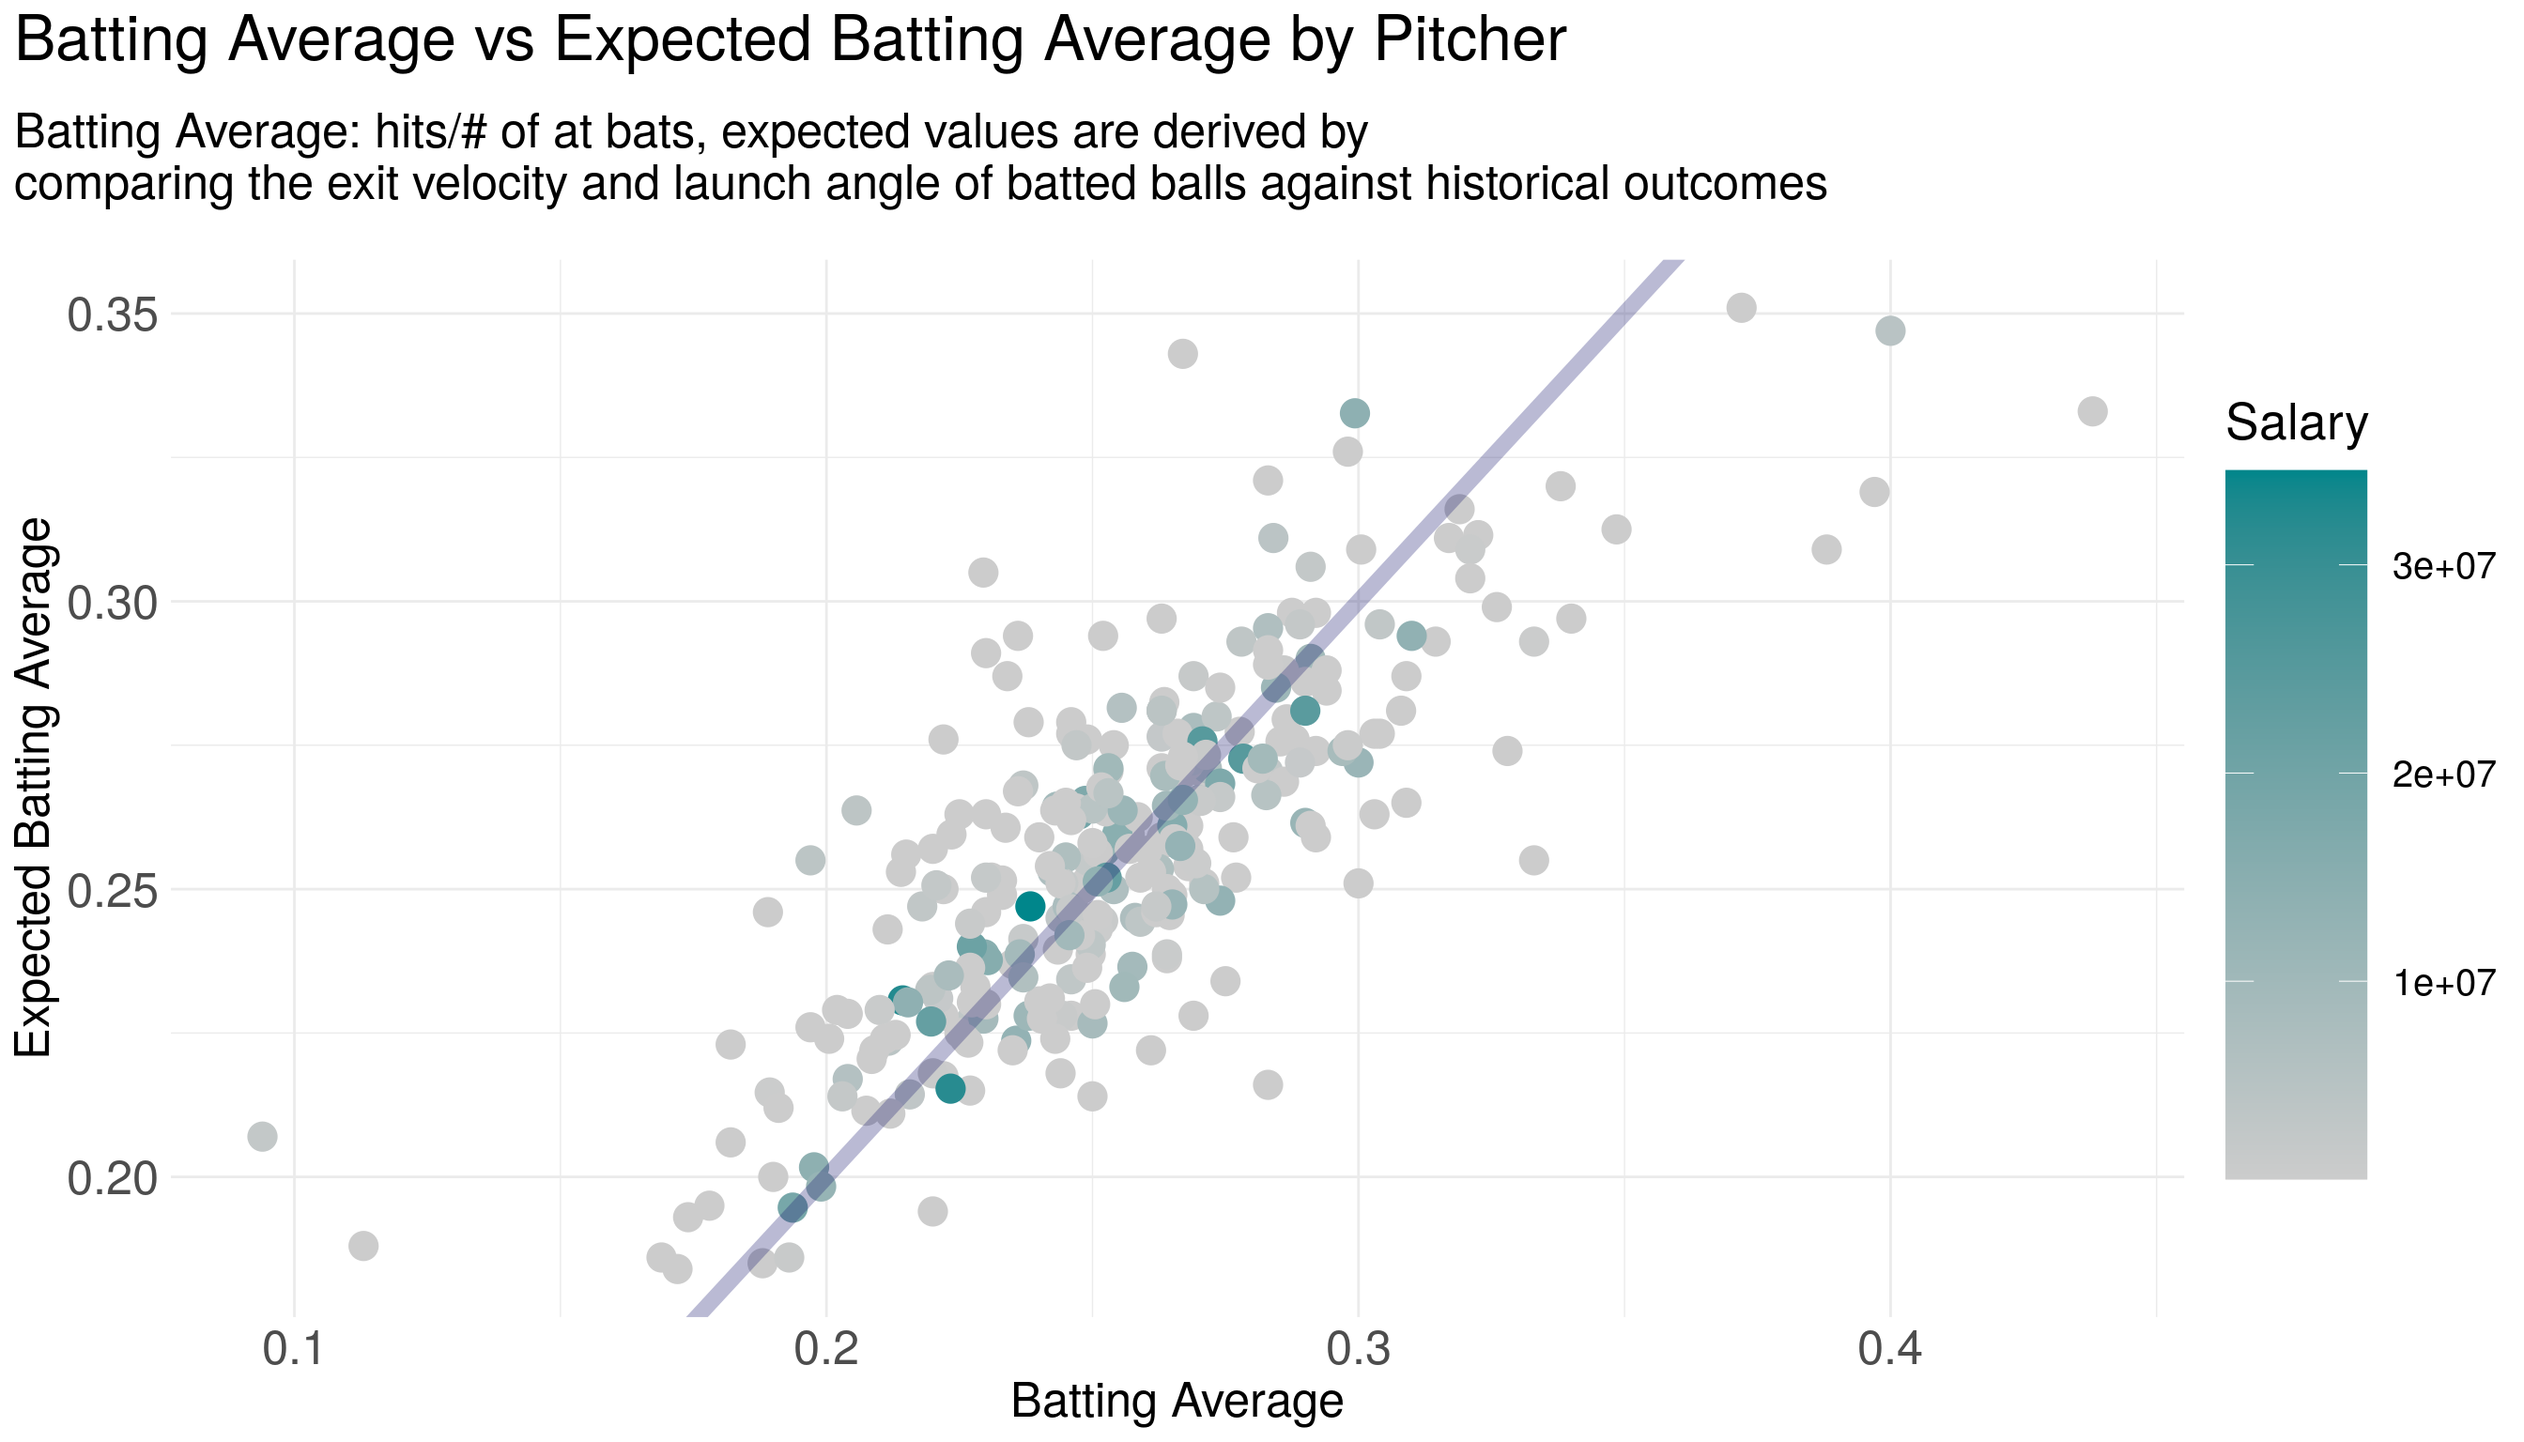
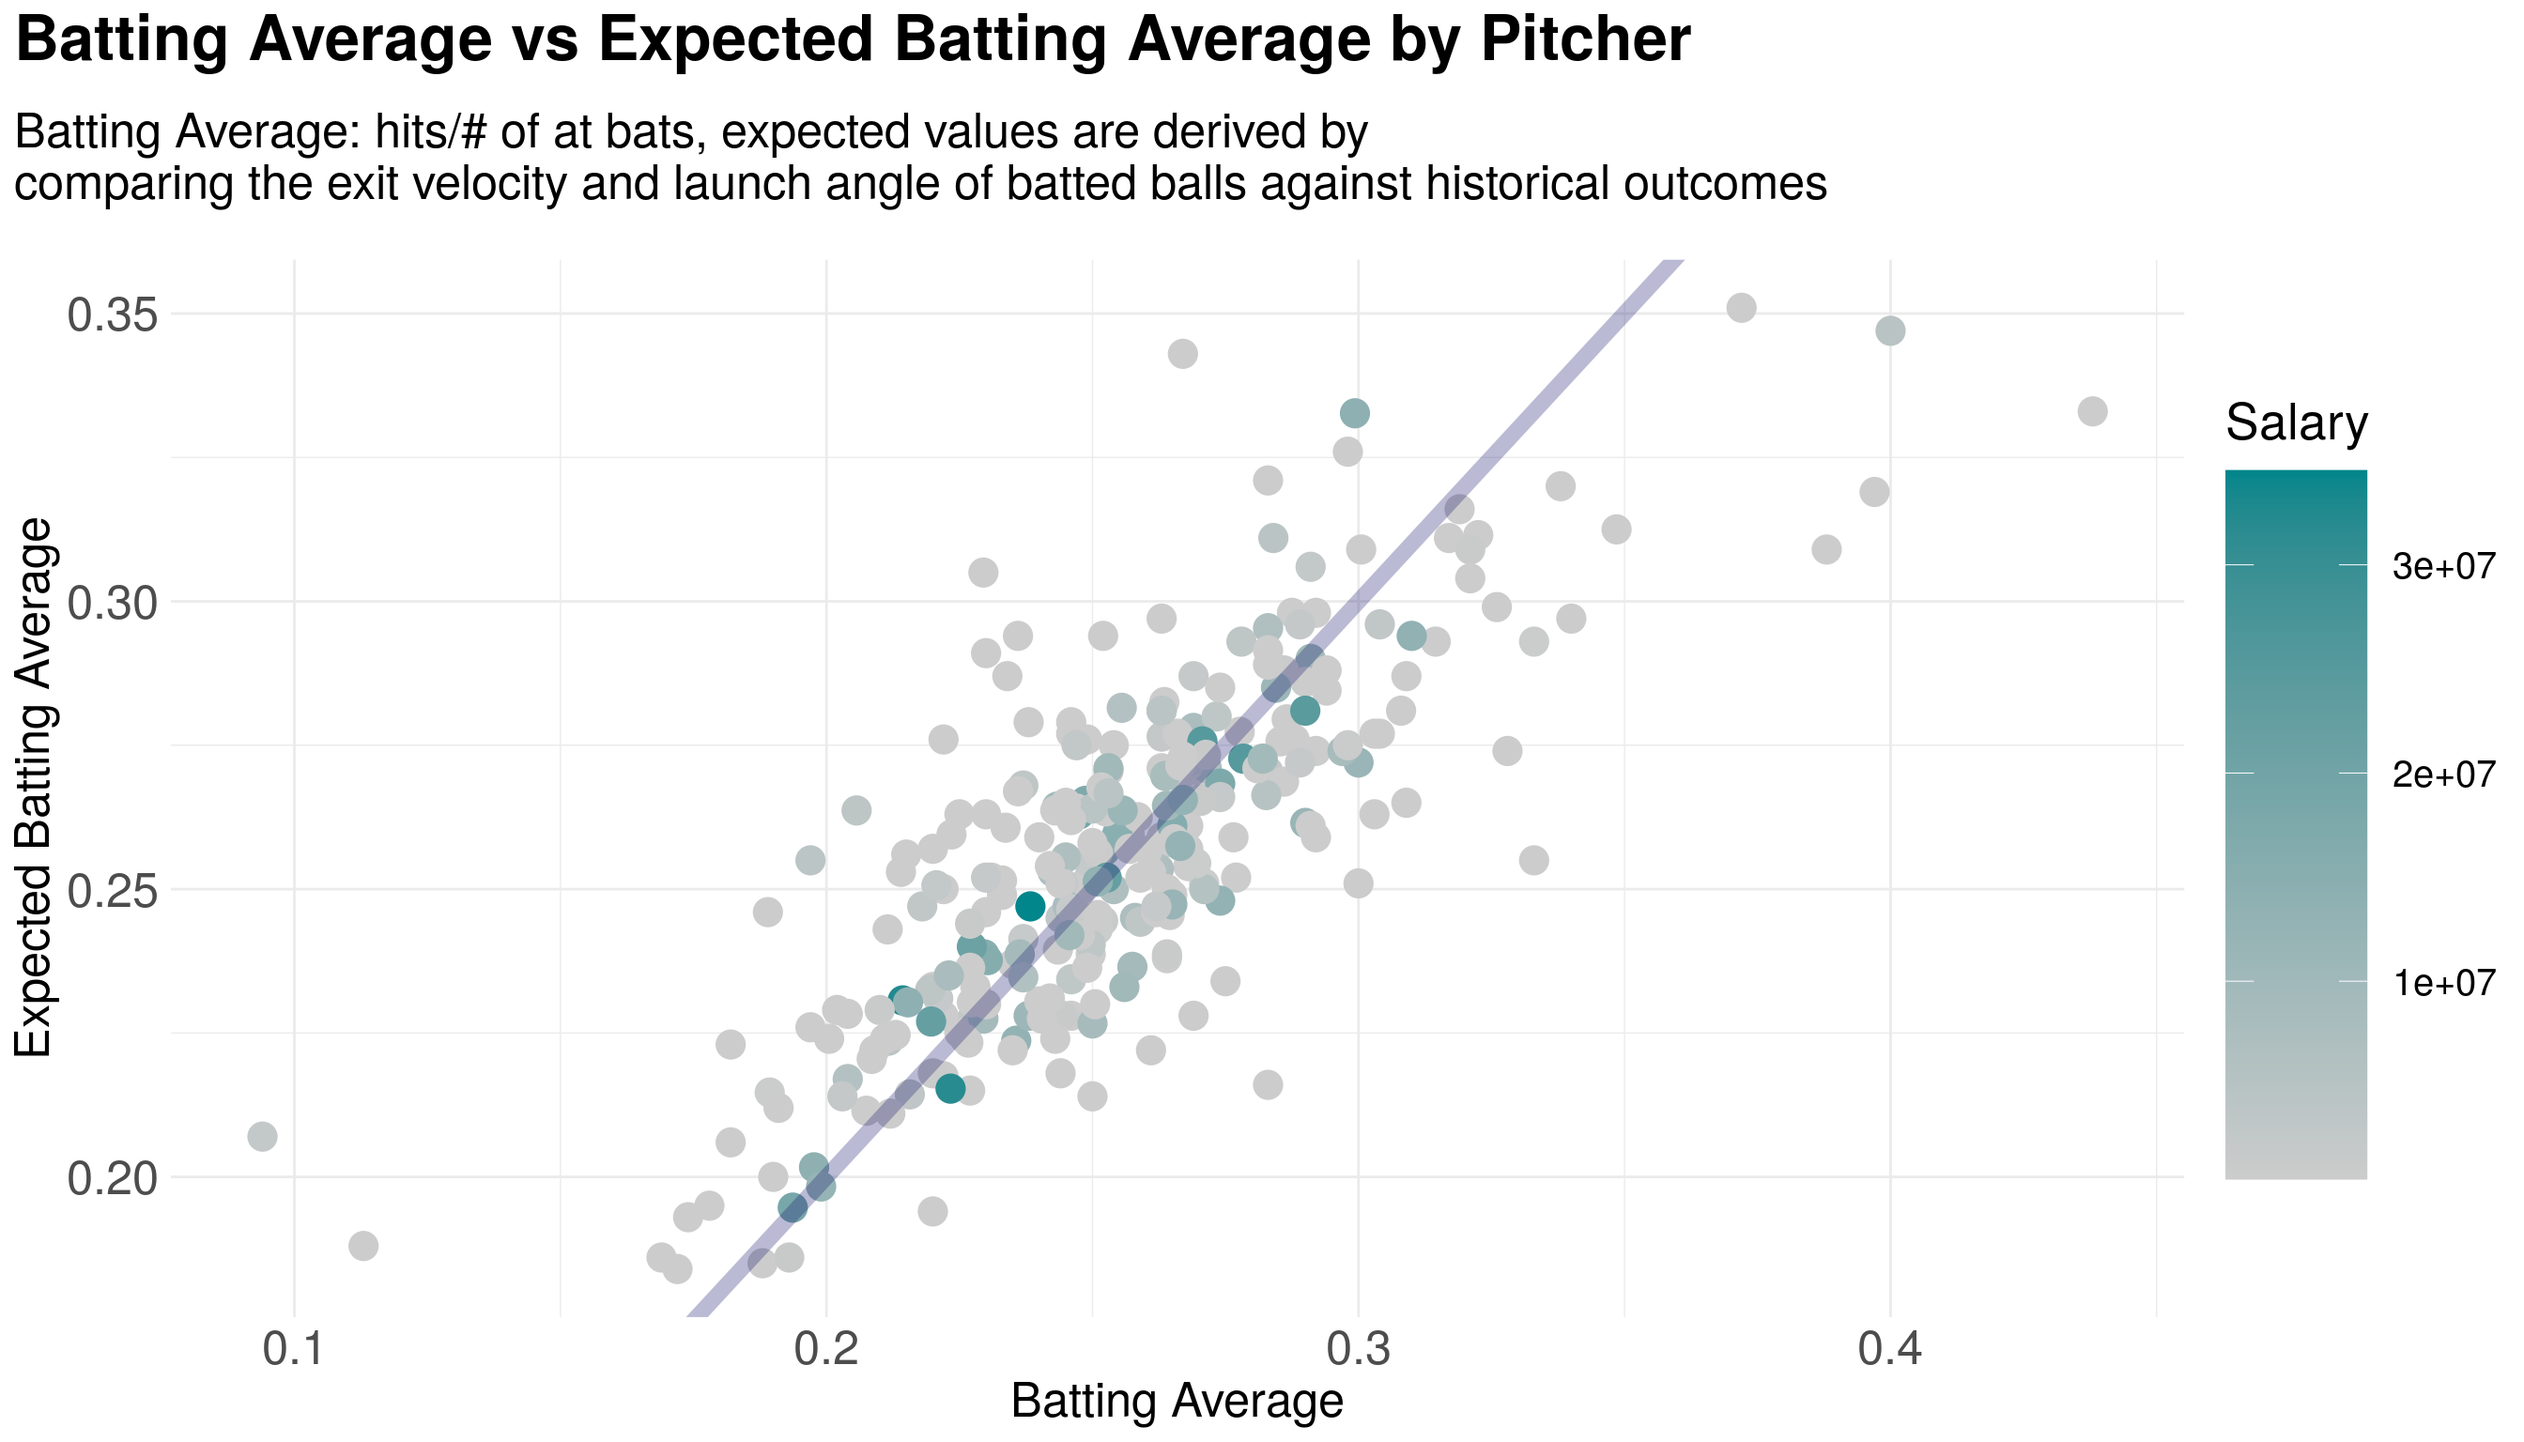
bold fig titles

Changed region(s): [[0.0, 0.0, 0.6875, 0.0625]]

diff --git a/README.md b/README.md
@@ -41,8 +41,8 @@ library(pitchR)
 data('pitchR')
 ```
 
-Here is a simplified version of the raw data; see `?pitchR` for more
-information:
+Here is a simplified version of the raw data; run `?pitchR` for an
+in-depth description of the data:
 
 ``` r
 head(pitchR, 3)
